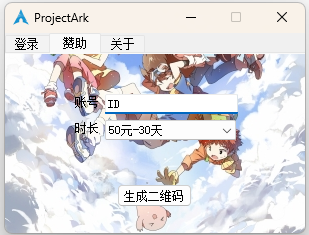
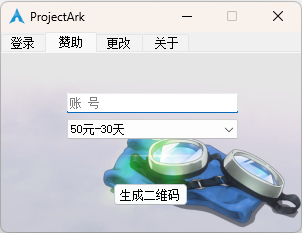
v4.567

diff --git a/index.md b/index.md
@@ -6,14 +6,18 @@ projectArk: True
 ---
 # Purpose
 致力于优化全体驯兽师的数码世界体验
+## RPG
+- 自动后台答题、重登、变速、强化、扭蛋、找怪、对战、上卡、补卡、捕捉、召唤、进化、捡物、补evp、补buff、副宠复活、兑换、转盘等功能、
+- 支持[宝贝服](https://www.digimonol.com)、服不服、[北美服](https://dro.gameking.com)、[韩服](https://www.digimonrpg.com/Default)
+
 ## DMO
 - 优化 DMO-CPU 占用至 1%，安静挂机
-- 自动隐藏+动态切换 DMO 窗口，避免弹窗干扰电脑其他活动
-- 一键杀死最顶层 DMO 窗口，避免 DMO 进程残留
+- 自动隐藏+动态切换 DMO 窗口，避免 DMO 窗口干扰电脑其他活动
+- 完全关闭最顶层 DMO 窗口，避免 DMO 进程残留
 - 优化弯刀使用体验
     - 弯刀崩溃关闭后自动重开弯刀（仅支持单开弯刀）
-    - 解决弯刀的掉线重连功能可能导致的机器蓝屏问题
-    - 掉线重连自动开启无动作
+    - 避免弯刀重登DMO引发的机器蓝屏问题
+    - 弯刀重连自动开启无动作
 - JJC 自动快速召唤至任意层， 普通 JJC 单票约节省 5 分钟
 <!--     - 指定层停止并转入 DATS 参与战斗 -->
 - 自动后台登录账号、断线重连，批量自动更新 DMO 客户端
@@ -24,8 +28,7 @@ projectArk: True
     - 出货率：dcode2:hbu5 出货率约为 1.2:1
     - 出货量：hbu5 每日出货量约为 60~100
 -->
-## RPG
-- 自动后台答题、重登、变速、强化、扭蛋、找怪、对战、上卡、补卡、捕捉、召唤、进化、捡物、补evp、补buff、副宠复活、兑换、转盘等功能
+
 
 ## 联系方式
 

diff --git a/release.md b/release.md
@@ -35,7 +35,7 @@ projectArk: True
 
 
 
-新用户请联系[作者](/index#联系方式)注册账号，启动登录器赞助<!-- ，并将<a href="https://www.ip138.com">此页面（点击）</a>的IP地址发给作者加入白名单 -->
+新用户请联系[作者](/index#联系方式)注册账号，登录器中赞助、更改密码<!-- ，并将<a href="https://www.ip138.com">此页面（点击）</a>的IP地址发给作者加入白名单 -->
 
 ![23]({{site.cdn}}/resource/donate_ui.png)
 
